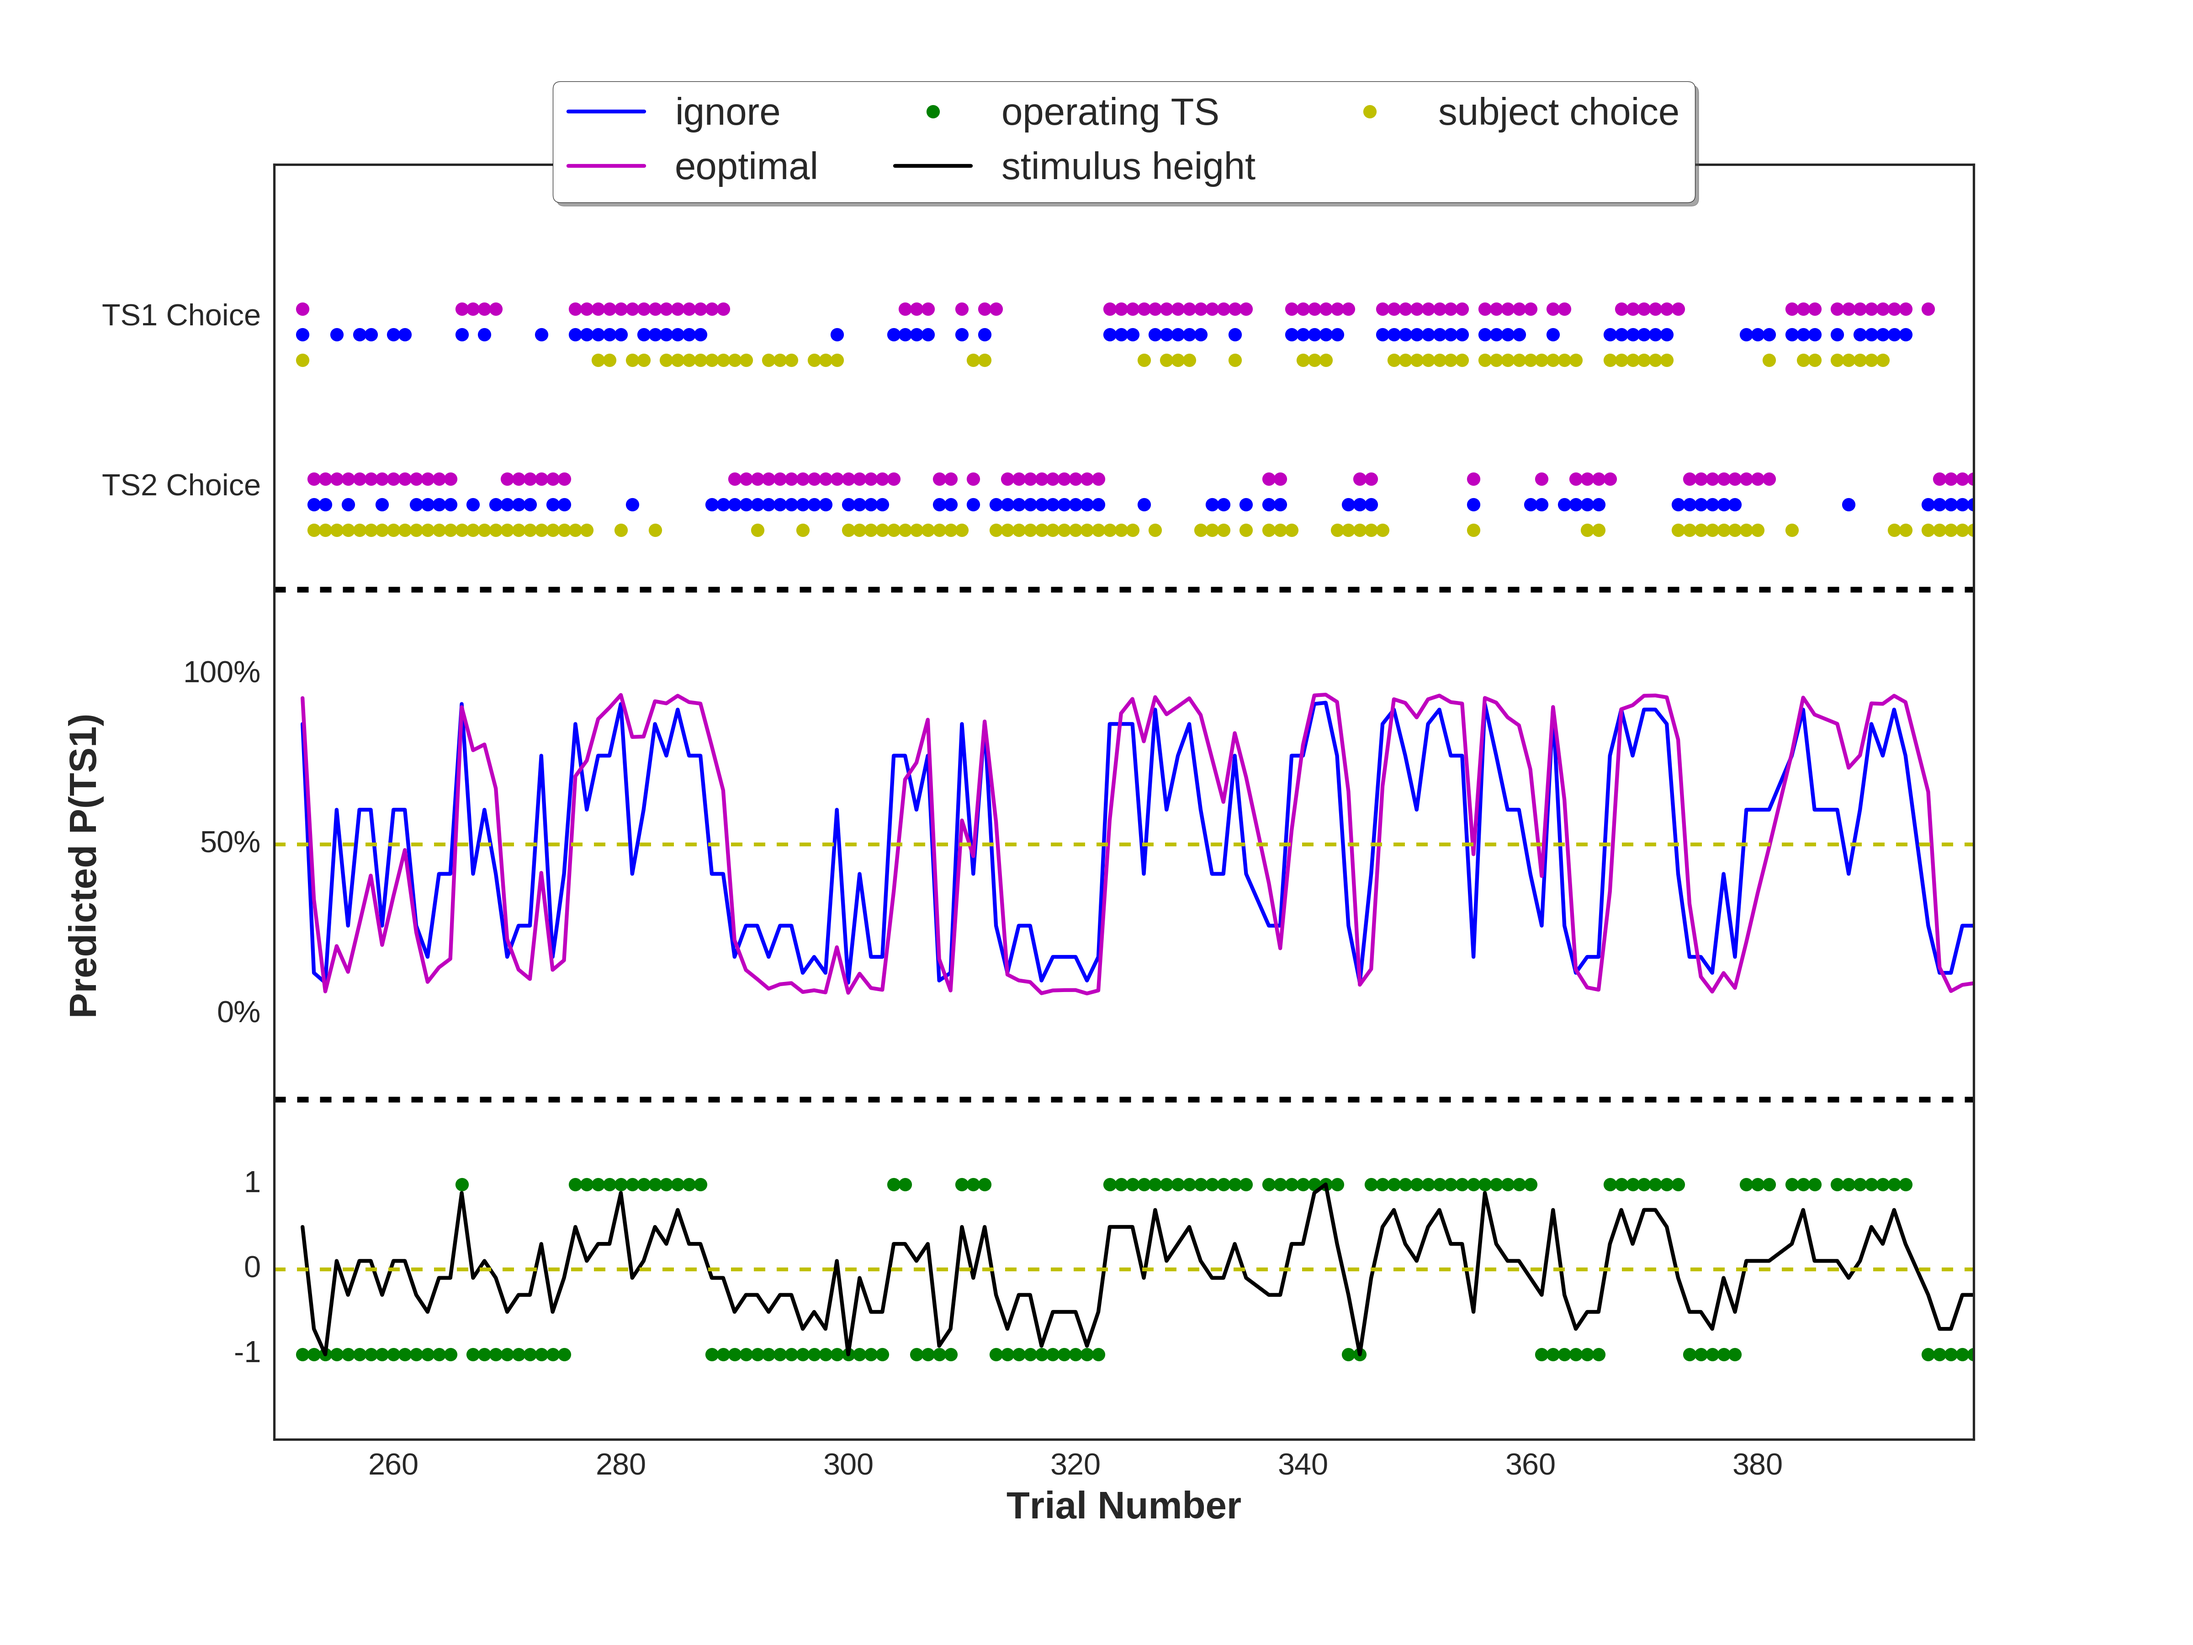
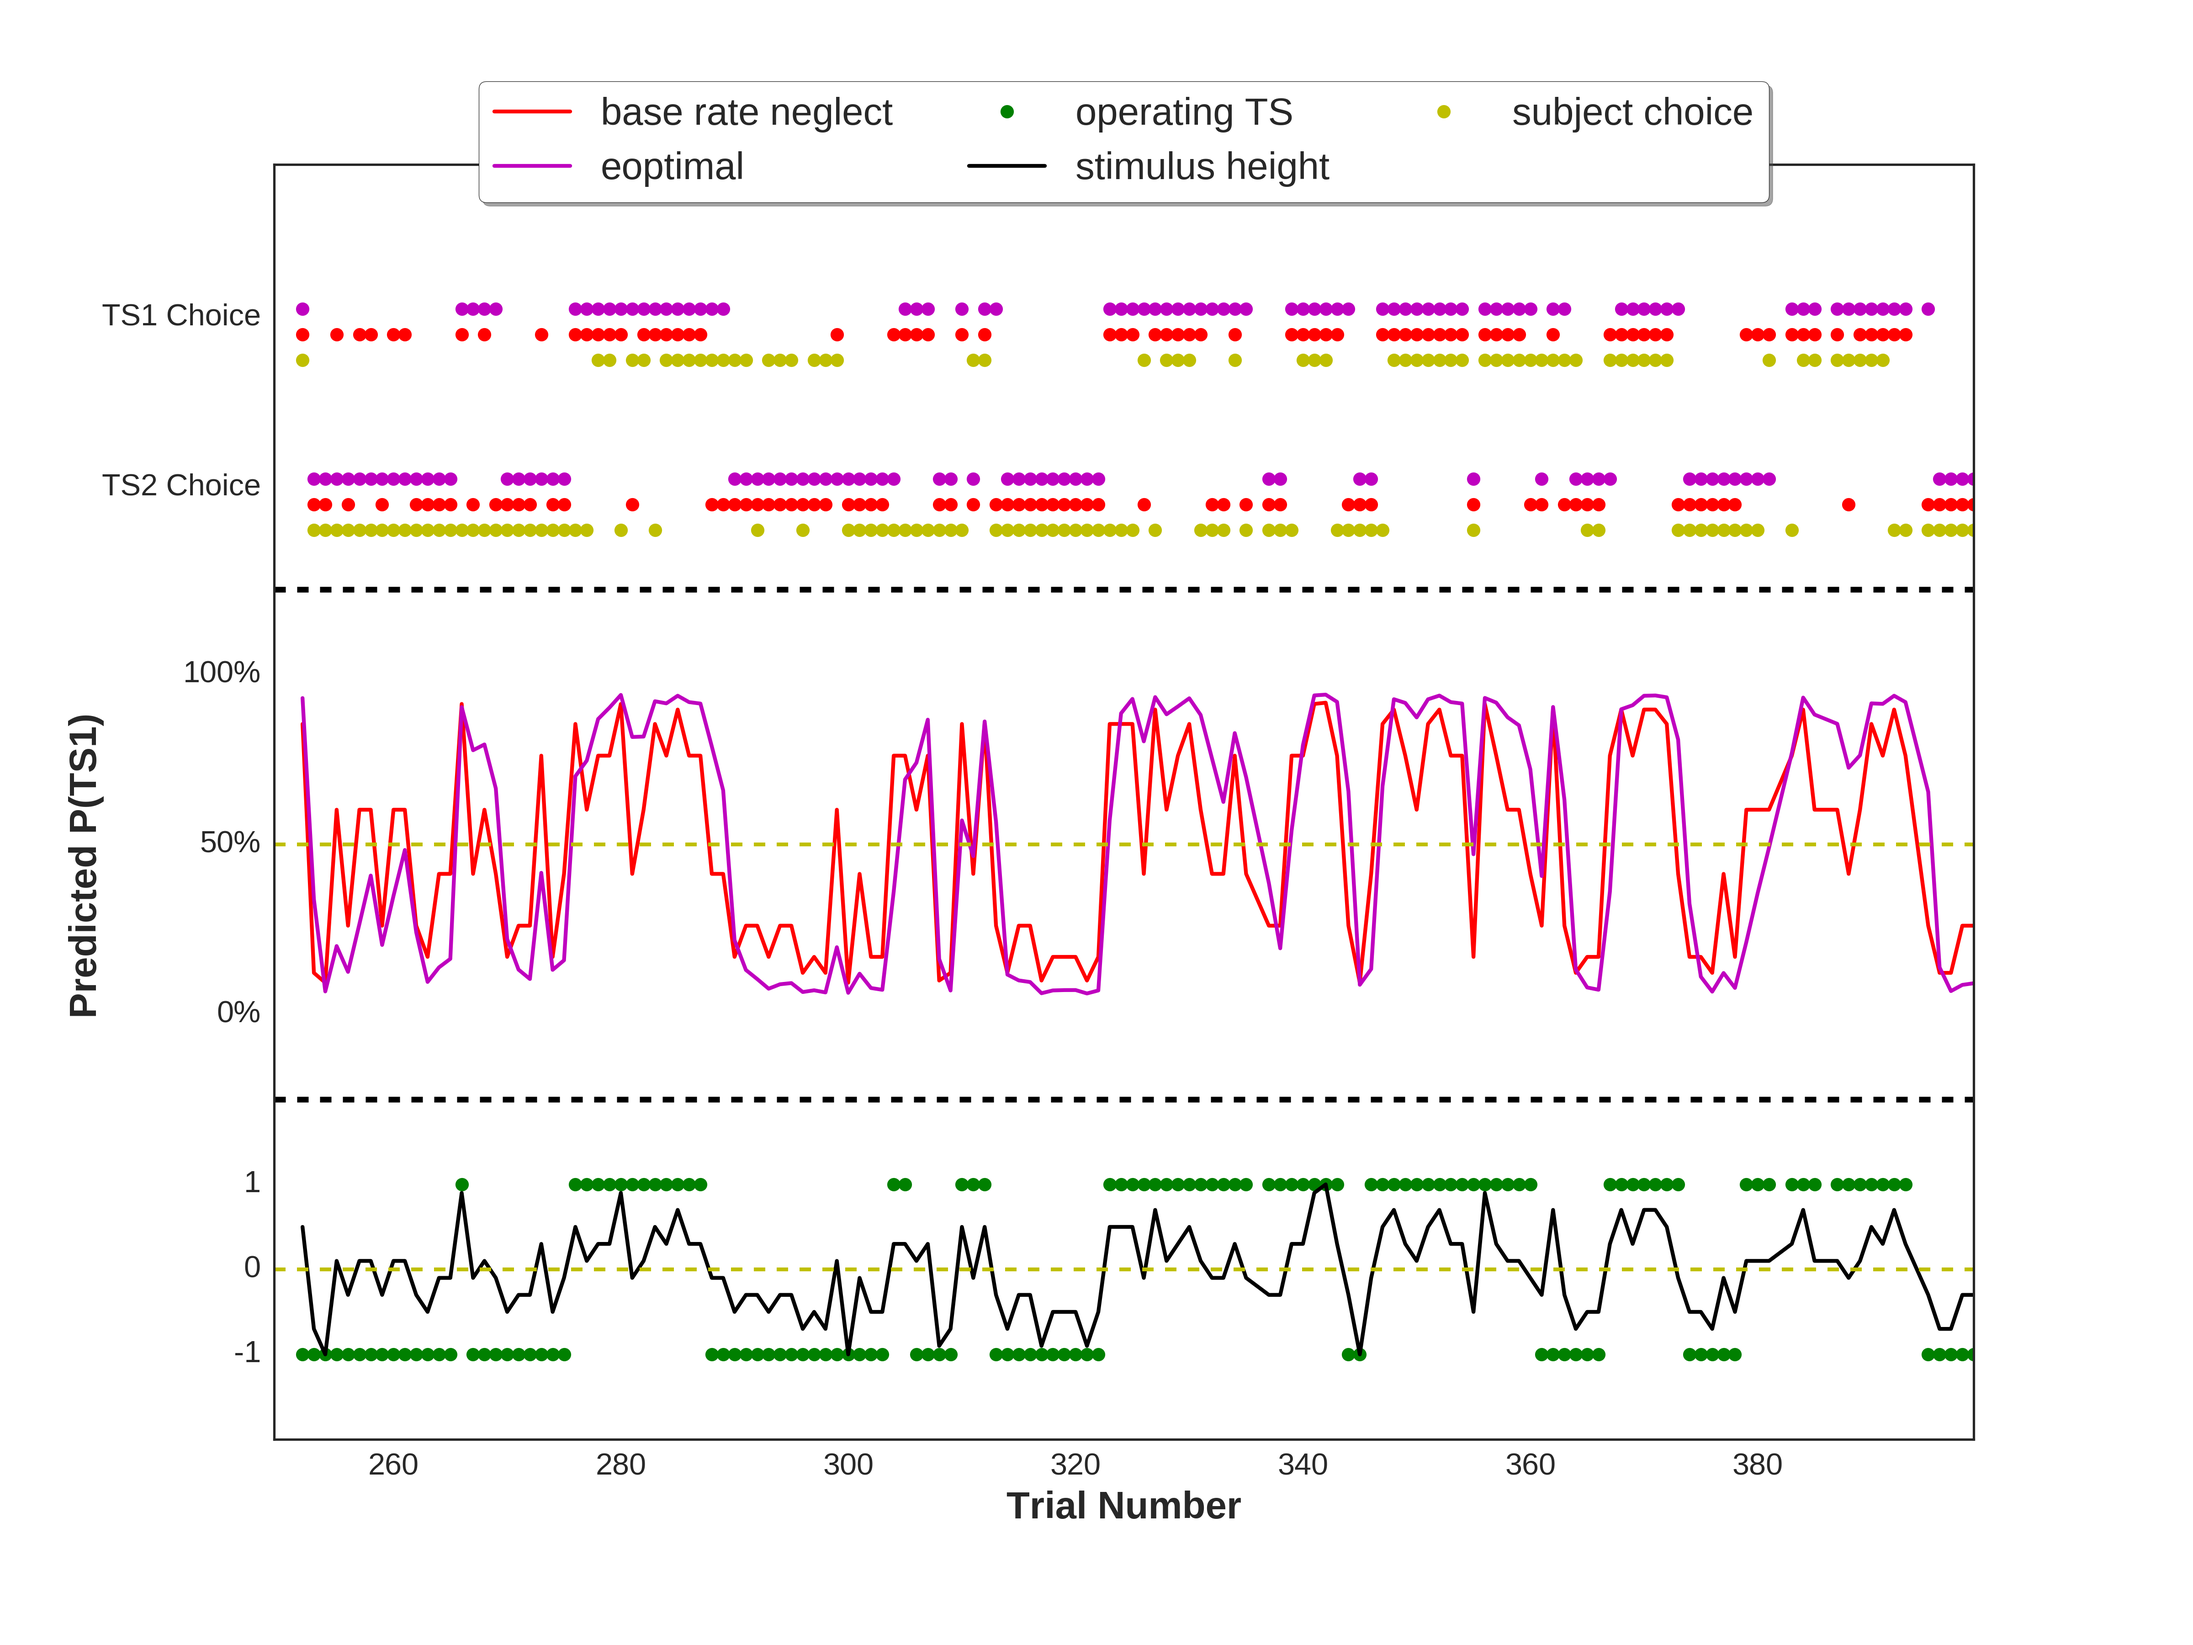
changed order for sub plots

diff --git a/Behavioral_task/Analysis/Subject_Analysis.py b/Behavioral_task/Analysis/Subject_Analysis.py
@@ -181,10 +181,11 @@ if plot == True:
     figdims = (16,12)
     fontsize = 20
     
-    plotting_dict = {'bias2': ['bias2_observer_posterior', 'r','bias2'],
-                     'ignore': ['ignore_observer_posterior', 'b','ignore'],
-                    'eoptimal': ['eoptimal_observer_posterior', 'm','eoptimal']}
-                    
+    plotting_dict = odict()
+    plotting_dict['ignore'] = ['ignore_observer_posterior', 'r','base rate neglect']
+    plotting_dict['eoptimal'] = ['eoptimal_observer_posterior', 'm','eoptimal']
+    plotting_dict['bias2'] = ['bias2_observer_posterior', 'c','bias2']
+    
     #bias2 much better fit than optimal, incorporates bias
     sub_id = '041'
     sub = gtest_df[gtest_df['id'] == int(sub_id)]
